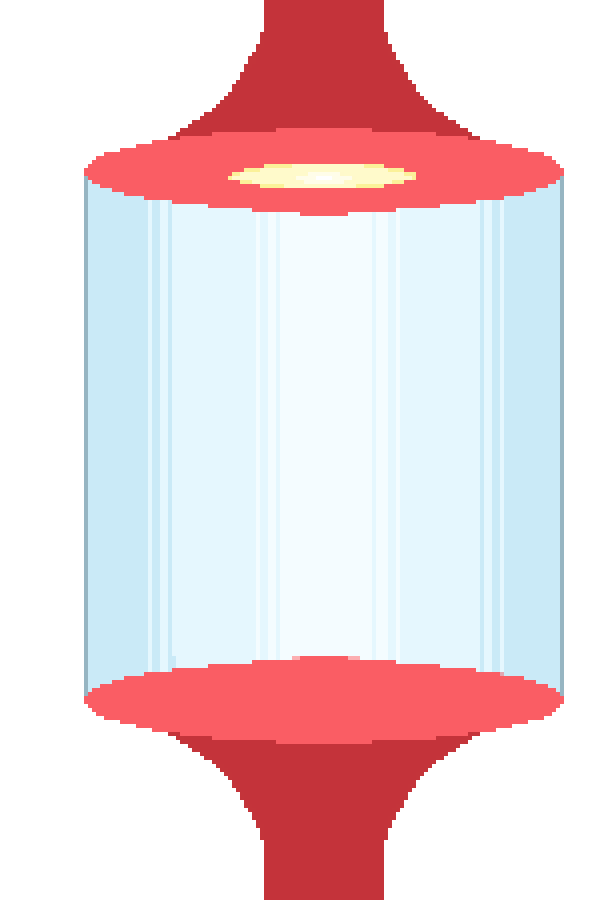
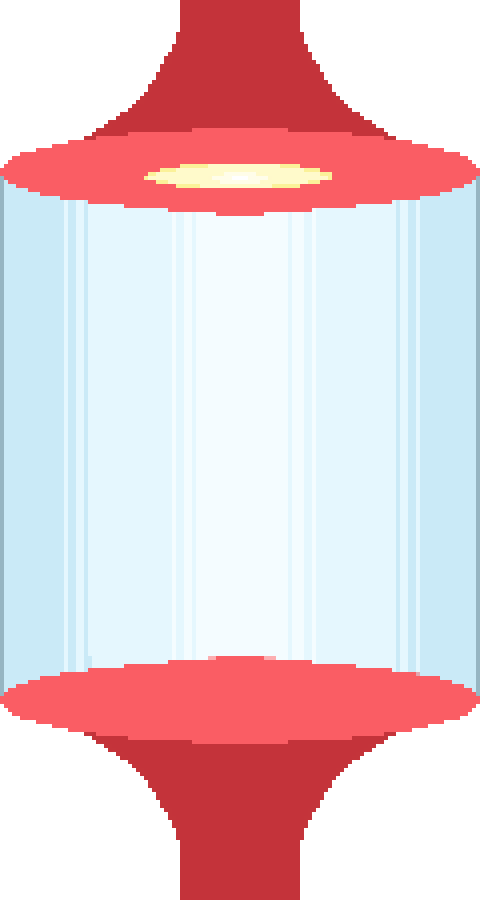
Get loadout screen working

diff --git a/src/app/Loadout.tsx b/src/app/Loadout.tsx
@@ -1,10 +1,41 @@
+import { useState } from 'react';
+
 import './Loadout.css';
+import Player, { PlayerLoadout } from './Player';
+import { items } from './items';
 
 export default function Loadout() {
+  const [loadout, setLoadout] = useState<PlayerLoadout>({});
+  const [page, setPage] = useState(0);
+  const lastPage = Math.floor(items.length / 15);
+
   return (
     <div className='Loadout'>
+      <div className='items'>
+        {items.slice(page * 15, (page + 1) * 15).map(({ slot, name }) => (
+          <button
+            key={name}
+            type='button'
+            className={slot}
+            onClick={() => setLoadout(prev => ({ ...prev, [slot]: name }))}
+          >
+            <img src={`/src/assets/items/${name}.png`} />
+          </button>
+        ))}
+      </div>
+
+      <div className='nav'>
+        <button type='button' disabled={page === 0} onClick={() => setPage(prev => prev - 1)}>
+          «
+        </button>
+
+        <button type='button' disabled={page === lastPage} onClick={() => setPage(prev => prev + 1)}>
+          »
+        </button>
+      </div>
+
       <img className='tube' src='/src/assets/background-TUBE.png' />
-      <img className='guy' src='/src/assets/BASE_GUY.png' />
+      <Player loadout={loadout} />
     </div>
   );
 }

diff --git a/src/app/Loadout.css b/src/app/Loadout.css
@@ -1,12 +1,66 @@
 .Loadout {
+  .items {
+    position: absolute;
+    top: 205px;
+    left: 125px;
+    display: grid;
+    grid-template-columns: 1fr 1fr 1fr 1fr 1fr;
+    gap: 20px;
+    row-gap: 20px;
+
+    button {
+      position: relative;
+      width: 150px;
+      height: 150px;
+      box-shadow: 0 0 0 5px black;
+      background-color: rgb(255 255 255 / .6);
+      overflow: hidden;
+
+      img {
+        position: absolute;
+        left: -125px;
+      }
+
+      &.hat img {
+        top: 0px;
+      }
+      &.face img {
+        top: -70px;
+      }
+      &.shirt img {
+        top: -175px;
+      }
+      &.pants img {
+        top: -290px;
+      }
+    }
+  }
+
+  .nav {
+    position: absolute;
+    top: 730px;
+    left: 125px;
+    display: flex;
+    align-items: center;
+    justify-content: space-evenly;
+    width: 830px;
+
+    button {
+      padding: 10px 20px;
+      background-color: var(--cyan);
+      box-shadow: 5px 5px 0 0 var(--light-cyan) inset, -5px -5px 0 0 var(--dark-cyan) inset;
+      color: white;
+    }
+  }
+
   .tube {
     position: absolute;
-    inset: 0;
-    left: auto;
+    top: 0;
+    right: 36px;
     z-index: 600;
   }
 
-  .guy {
+  .Player {
     position: absolute;
     top: 258px;
     right: 75px;

diff --git a/src/app/items.ts b/src/app/items.ts
@@ -1,0 +1,42 @@
+export const hat = [
+  'hat_ballcap-blue',
+  'hat_ballcap-green',
+  'hat_ballcap-moregreen',
+  'hat_ballcap-pink',
+  'hat_ballcap-purple',
+  'hat_ballcap-red',
+  'hat_bowler',
+  'hat_bubble-helmet',
+  'hat_propeller-beanie',
+  'hat_tophat',
+];
+export const face = [
+  'face_goggles',
+];
+export const shirt = [
+  'top_shirt-black',
+  'top_shirt-bluestripe',
+  'top_shirt-greenstripe',
+  'top_shirt-magenta',
+  'top_shirt-ochre',
+  'top_shirt-purplegreen',
+];
+export const pants = [
+  'bottom_pants-black',
+  'bottom_pants-blue',
+  'bottom_pants-magenta',
+  'bottom_pants-purplegreen',
+  'bottom_pants-teal',
+];
+
+export type Item = {
+  slot: string,
+  name: string,
+};
+
+export const items: Item[] = [
+  ...hat.map(name => ({ slot: 'hat', name })),
+  ...face.map(name => ({ slot: 'face', name })),
+  ...shirt.map(name => ({ slot: 'shirt', name })),
+  ...pants.map(name => ({ slot: 'pants', name })),
+];

diff --git a/src/app/Player.tsx b/src/app/Player.tsx
@@ -1,0 +1,24 @@
+import './Player.css';
+
+export type PlayerLoadout = {
+  hat?: string,
+  face?: string,
+  shirt?: string,
+  pants?: string,
+};
+
+type PlayerProps = {
+  loadout: PlayerLoadout,
+};
+
+export default function Player({ loadout }: PlayerProps) {
+  return (
+    <div className='Player'>
+      <img className='guy' src='/src/assets/BASE_GUY.png' />
+
+      {Object.entries(loadout).map(([slot, name]) => !!name && (
+        <img key={slot} className={slot} src={`/src/assets/items/${name}.png`} />
+      ))}
+    </div>
+  );
+}

diff --git a/src/app/Player.css b/src/app/Player.css
@@ -1,0 +1,29 @@
+.Player {
+  position: relative;
+  width: 400px;
+  height: 484px;
+
+  img {
+    position: absolute;
+    inset: 0;
+
+    &.guy {
+      z-index: 10;
+    }
+    &.hat {
+      z-index: 50;
+    }
+    &.face {
+      z-index: 40;
+    }
+    &.shirt {
+      z-index: 30;
+    }
+    &.pants {
+      z-index: 20;
+    }
+    &.feet {
+      z-index: 15;
+    }
+  }
+}

diff --git a/src/index.css b/src/index.css
@@ -60,5 +60,10 @@ body {
     font-size: inherit;
     border: 0;
     cursor: url('/src/assets/cursor-hover.png'), pointer;
+
+    &[disabled] {
+      opacity: .5;
+      pointer-events: none;
+    }
   }
 }
